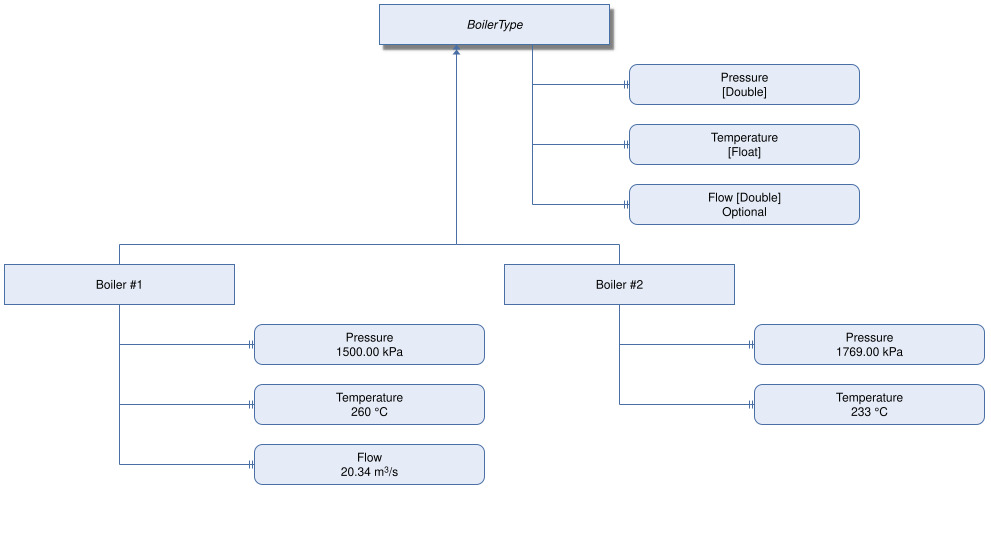
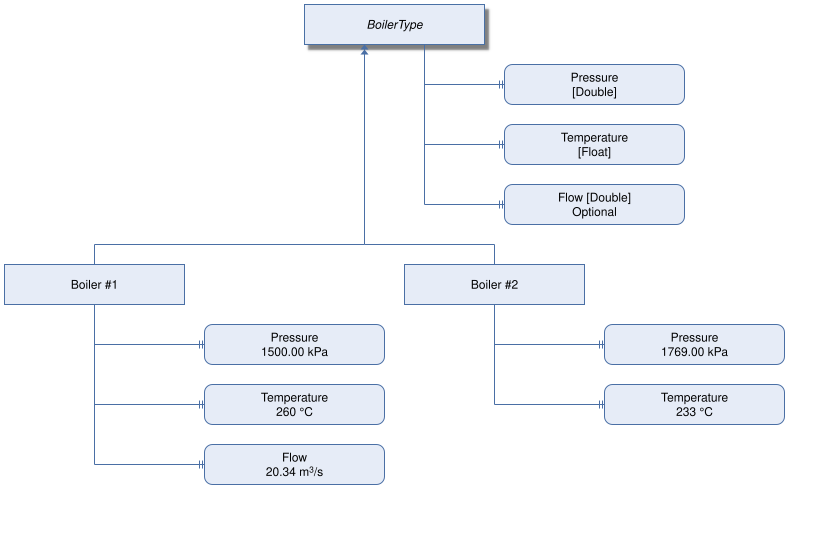
Make node min width customizable

diff --git a/tree2svg.py b/tree2svg.py
@@ -62,7 +62,7 @@ import sys
 
 FONT_SIZE = 12
 FONT_FAMILY = "Helvetica"
-BOX_W = 230             # The reference uses the same width for every node.
+MIN_BOX_W = 230
 BOX_H = 40
 ROOT_X, ROOT_Y = 298, 4
 PARENT_Y = 122
@@ -126,6 +126,7 @@ def parse(text):
         "text": TEXT_COLOR,
         "font": FONT_FAMILY,
         "arrow": STROKE,
+        "min_width": MIN_BOX_W,
     }
     in_node_skinparam = False
     branch_group = 0
@@ -163,6 +164,15 @@ def parse(text):
                 continue
             if node_setting and key in ("fontname", "fontfamily"):
                 style["font"] = value
+                continue
+            if node_setting and key in ("minwidth", "width"):
+                try:
+                    min_width = float(value)
+                except ValueError as exc:
+                    raise ValueError(f"node minimum width must be numeric: {value!r}") from exc
+                if min_width <= 0:
+                    raise ValueError(f"node minimum width must be positive: {value!r}")
+                style["min_width"] = min_width
                 continue
             if key in ("arrowcolor", "linecolor"):
                 style["arrow"] = value
@@ -237,21 +247,36 @@ def infer_reference_type(source_class, destination_class):
 
 # --- 2. layout ----------------------------------------------------------------
 
-def set_box(node, x, y):
-    node.w = BOX_W
+def label_width(label):
+    """Estimate the rendered width of the widest label line in pixels."""
+    widest = 0.0
+    for line in label.split("\n"):
+        width = 0.0
+        for part in re.split(r"(\^[0-9]+)", line):
+            if re.fullmatch(r"\^[0-9]+", part):
+                width += len(part[1:]) * FONT_SIZE * 0.6 * 0.7
+            else:
+                width += len(part) * FONT_SIZE * 0.6
+        widest = max(widest, width)
+    return widest
+
+
+def set_box(node, x, y, min_width):
+    node.w = max(min_width, label_width(node.label) + FONT_SIZE * 2)
     node.h = BOX_H
     node.x, node.y = x, y
-    node.cx, node.cy = x + BOX_W / 2, y + BOX_H / 2
+    node.cx, node.cy = x + node.w / 2, y + BOX_H / 2
     node.bottom = y + BOX_H
     node.subtree_top = y
     node.subtree_left = x
-    node.subtree_right = x + BOX_W
+    node.subtree_right = x + node.w
     node.subtree_bottom = node.bottom
 
 
 def layout(root):
     """Lay out aggregate members first, then subtype and instance groups."""
-    set_box(root, ROOT_X, ROOT_Y)
+    min_width = root.style["min_width"]
+    set_box(root, ROOT_X, ROOT_Y, min_width)
 
     def translate(node, dx, dy):
         node.x += dx
@@ -268,7 +293,7 @@ def layout(root):
 
     def place(node, x, y):
         """Place one subtree and return its bounding-box dimensions."""
-        set_box(node, x, y)
+        set_box(node, x, y, min_width)
         aggregate = [child for child in node.children
                      if child.reference_type in ("hasProperty", "hasComponent")]
         organizes = [child for child in node.children

diff --git a/README.md b/README.md
@@ -114,6 +114,10 @@ Node styling is read from the relevant `skinparam` settings. Shadows are
 mandatory for type nodes and are not configurable; instance nodes do not have
 shadows.
 
+The minimum node width defaults to 230 pixels and can be changed with
+`skinparam nodeMinWidth 180`. Nodes expand beyond that width when their labels
+need more space.
+
 Use `--no-triangles` with `tree2svg.py` to omit UML inheritance triangles.
 
 ## License
